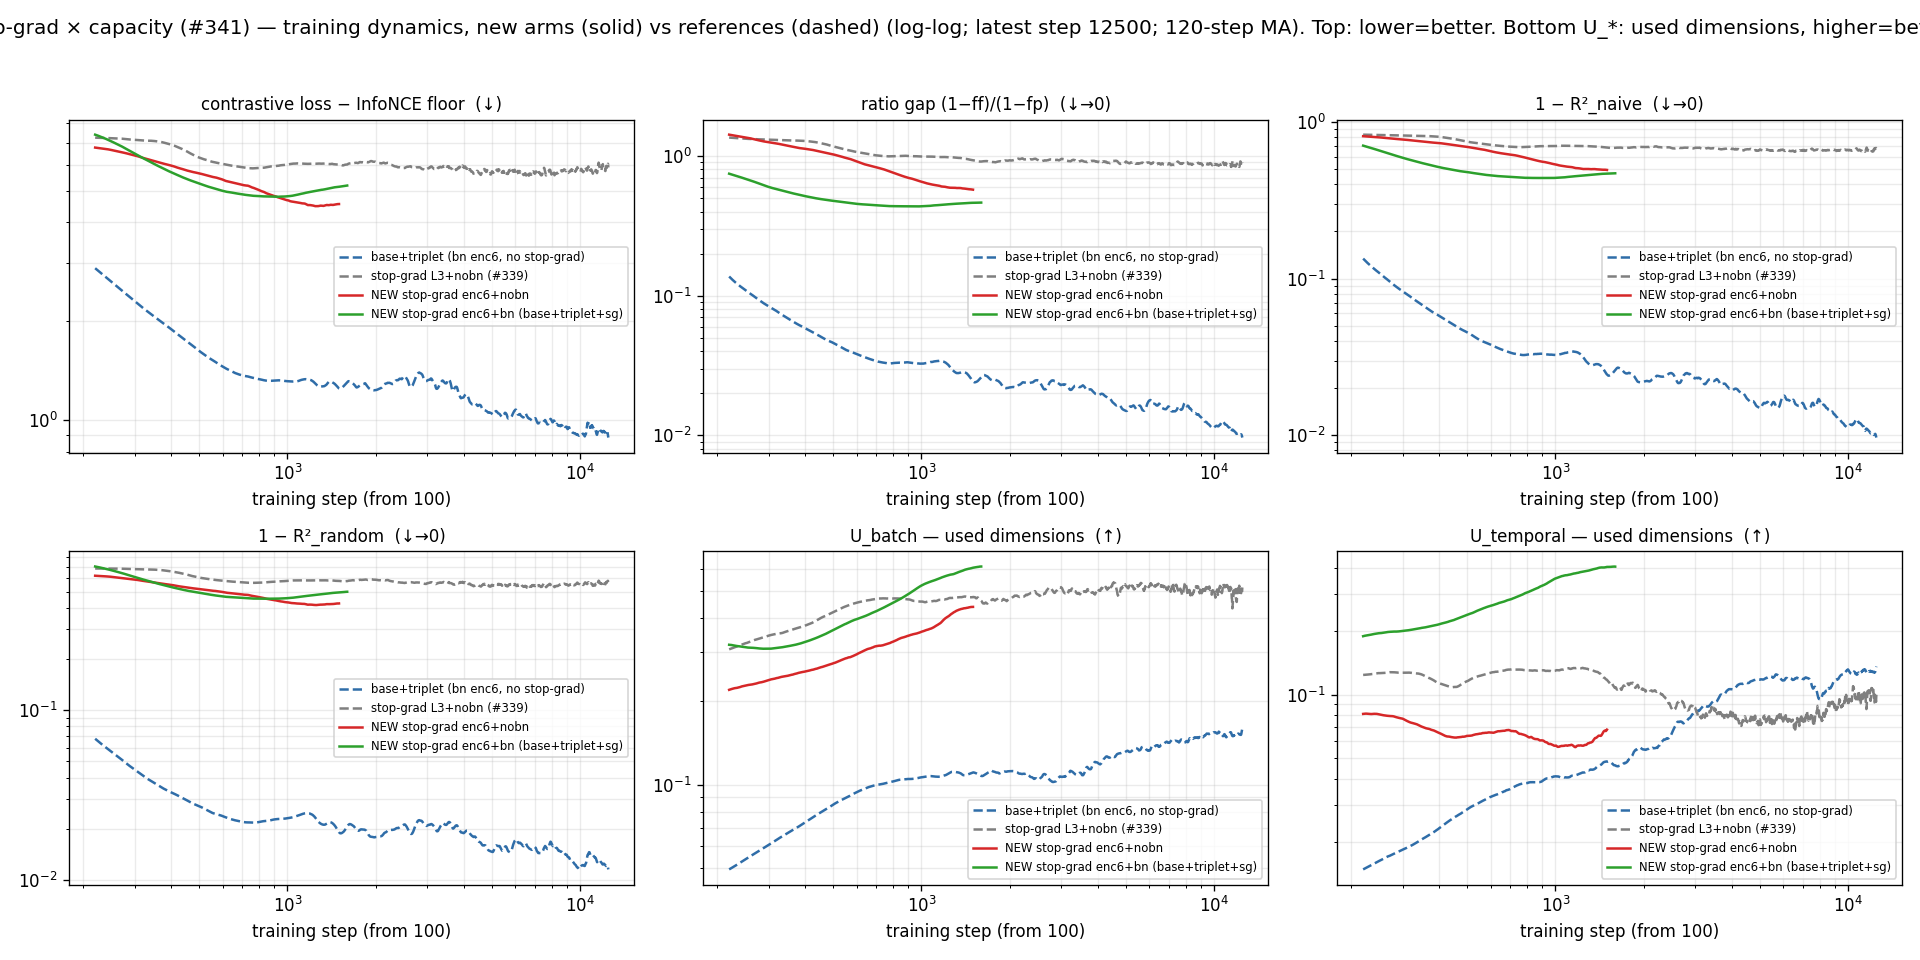
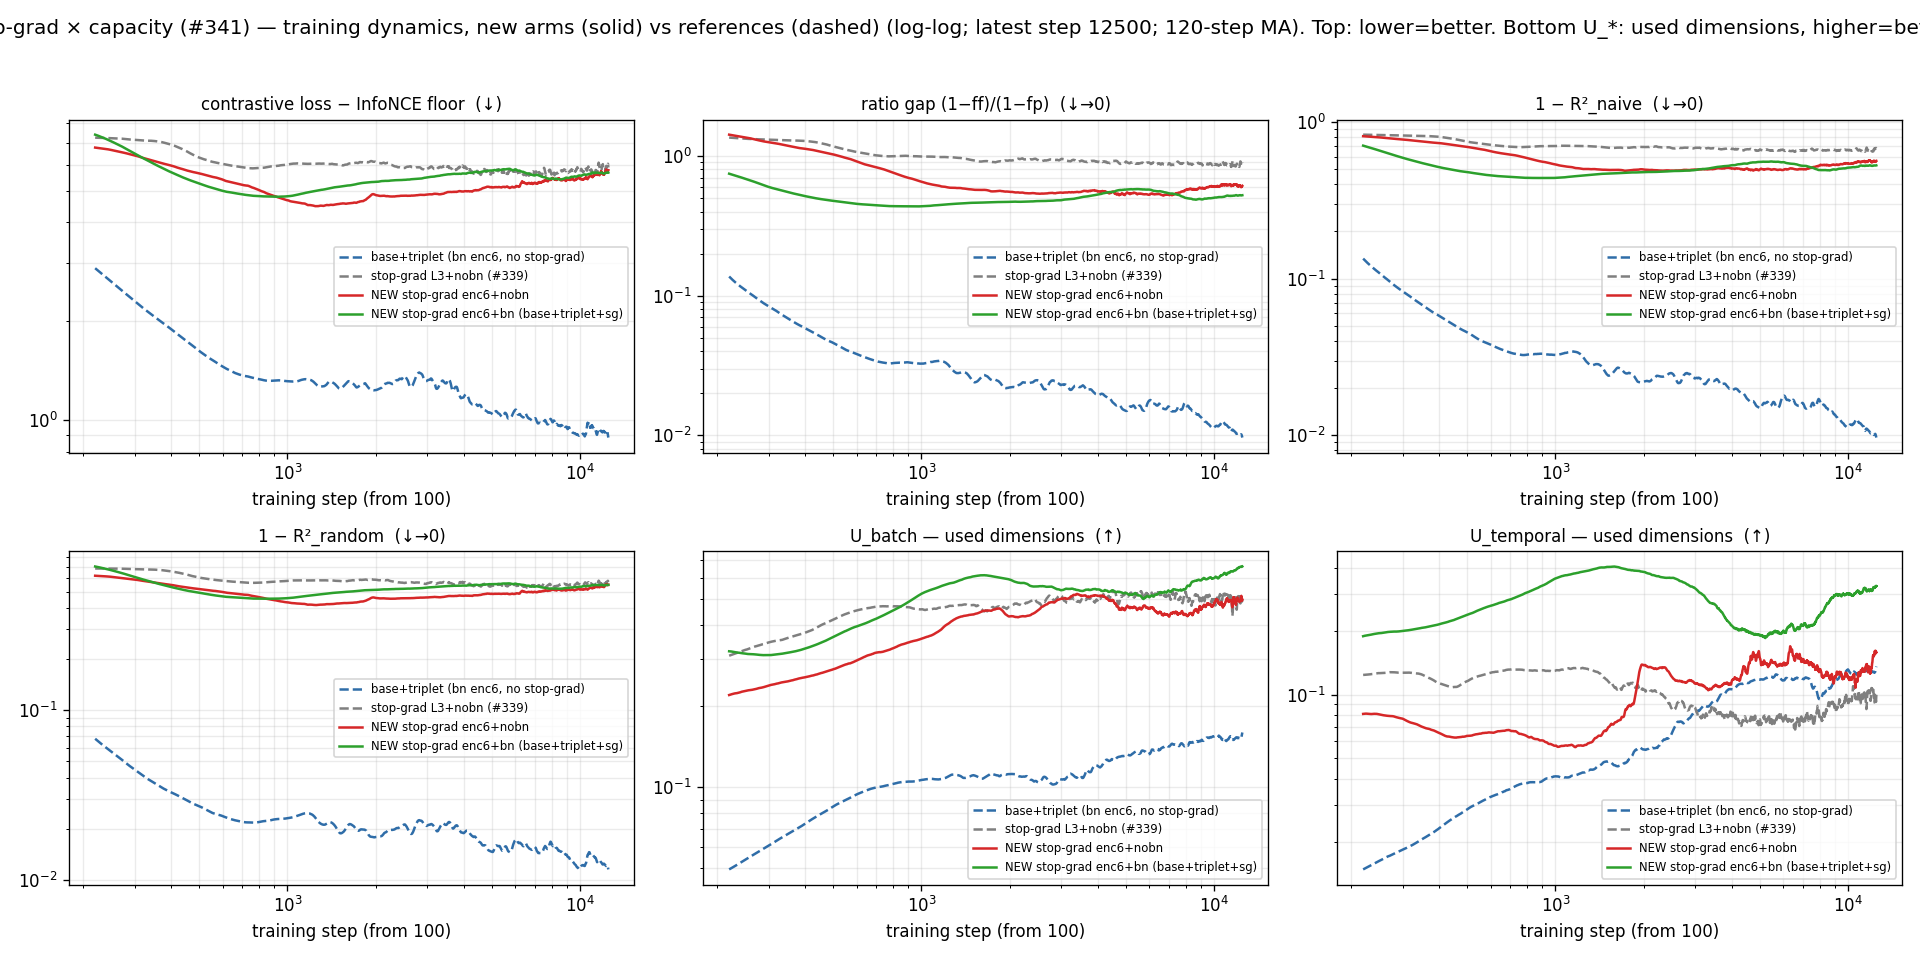
exp(#341): report + headline/dynamics figures + 4-arm analysis CSVs
Stop-grad does NOT flip the encoder-depth sign (shrinks penalty to ~0, never <0);
stop-grad + bottleneck collapses at the last checkpoint (~2.2, both heads) while
fine at best-loss. Fresh-30k and 10k-re-adapt last heads agree within 0.01 GM.

diff --git a/experiments/2026-06-11_stopgrad_capacity/scripts/plot_gm_summary_sgcap.py b/experiments/2026-06-11_stopgrad_capacity/scripts/plot_gm_summary_sgcap.py
@@ -1,10 +1,13 @@
 #!/usr/bin/env python3
-"""#341 — headline figure from results/{gm_table,pairwise_table}.csv.
+"""#341 — headline figure.
 
-Left: GM-Relative MASE per arm (4 grouped bars) per head × checkpoint.
-Right: the three hypothesis contrasts (arm3−arm2: capacity under stop-grad;
-arm4−arm1: stop-grad on base; arm4−arm2: bottleneck+enc6 vs the #339 arm)
-as paired-bootstrap Δ with 90% CI. Env: OUT (png).
+Left: GM-Relative MASE per arm × cell (4 arms grouped). The stop-grad+bottleneck
+arm (4) collapses at the last checkpoint (~2.2) while every arm sits ~1.16-1.21
+at best-loss — the two findings in one panel.
+Right: the capacity step enc3->enc6 as a paired-bootstrap Δ with 90% CI, WITHOUT
+stop-grad (#336 references) vs WITH stop-grad (arms 2->3) — does stop-grad flip
+the sign of the capacity knob? (No: it shrinks the penalty toward 0, never below.)
+Env: OUT.
 """
 import csv
 import os
@@ -14,73 +17,61 @@ import matplotlib.pyplot as plt
 import numpy as np
 
 EXP = "/home/jupyter/workspaces/contrastive-forecasting/experiments/2026-06-11_stopgrad_capacity"
-OUT = os.environ.get("OUT", "/tmp/cf-341/experiments/2026-06-11_stopgrad_capacity/plots/gm_summary.png")
+OUT = os.environ.get("OUT", f"{EXP}/plots/gm_summary.png")
 
-ARM_STYLE = [  # (key, short label, color)
-    ("a1_bn_enc6",      "base+triplet (no sg)", "#9dc3e6"),
-    ("a2_sg_enc3_nobn", "sg enc3+nobn (#339)",  "#7f7f7f"),
-    ("a3_sg_enc6_nobn", "sg enc6+nobn NEW",     "#c0504d"),
-    ("a4_sg_enc6_bn",   "sg enc6+bn NEW",       "#70ad47"),
-]
-CONTRASTS = [  # (A, B, label)
-    ("a2_sg_enc3_nobn", "a3_sg_enc6_nobn", "capacity under sg\n(arm3 − arm2)"),
-    ("a1_bn_enc6",      "a4_sg_enc6_bn",   "sg on base\n(arm4 − arm1)"),
-    ("a2_sg_enc3_nobn", "a4_sg_enc6_bn",   "enc6+bn vs #339 arm\n(arm4 − arm2)"),
-]
-CELLS = [("2L", "best"), ("2L", "last"), ("6L", "best"), ("6L", "last")]
-
-gms = {}
+gm = {}
 for r in csv.DictReader(open(f"{EXP}/results/gm_table.csv")):
     if r["gm"] not in ("", "None"):
-        gms[(r["arm"], r["head"], r["ckpt"])] = float(r["gm"])
-pairs = {}
+        gm[(r["arm"], r["head"], r["ckpt"])] = float(r["gm"])
+pair = {}
 for r in csv.DictReader(open(f"{EXP}/results/pairwise_table.csv")):
     if r["delta"] not in ("", "None"):
-        pairs[(r["A"], r["B"], r["head"], r["ckpt"])] = (
-            float(r["delta"]), float(r["ci_lo"]), float(r["ci_hi"]))
+        pair[(r["A"], r["B"], r["head"], r["ckpt"])] = (float(r["delta"]), float(r["ci_lo"]), float(r["ci_hi"]))
 
-fig, (ax1, ax2) = plt.subplots(1, 2, figsize=(14, 4.8), width_ratios=[1.15, 1])
+CELLS = [("2L", "best"), ("2L", "last"), ("6L", "best"), ("6L", "last")]
+ARMS = [  # key, label, color
+    ("a1_bn_enc6",      "arm1 bn·no-sg",     "#9dc3e6"),
+    ("a2_sg_enc3_nobn", "arm2 enc3·full·sg", "#7f7f7f"),
+    ("a3_sg_enc6_nobn", "arm3 enc6·full·sg", "#2ca02c"),
+    ("a4_sg_enc6_bn",   "arm4 enc6·bn·sg",   "#d62728"),
+]
+fig, (axL, axR) = plt.subplots(1, 2, figsize=(15, 5), width_ratios=[1.25, 1])
 
-x = np.arange(len(CELLS))
-nb = len(ARM_STYLE)
-w = 0.8 / nb
-vals_all = []
-for j, (key, lab, col) in enumerate(ARM_STYLE):
-    vals = [gms.get((key, h, c), np.nan) for h, c in CELLS]
-    vals_all += [v for v in vals if not np.isnan(v)]
-    ax1.bar(x + (j - (nb - 1) / 2) * w, vals, w, label=lab, color=col)
-    for xi, v in zip(x, vals):
+x = np.arange(len(CELLS)); w = 0.8 / len(ARMS)
+for j, (key, lab, col) in enumerate(ARMS):
+    vals = [gm.get((key, h, c), np.nan) for h, c in CELLS]
+    bx = x + (j - (len(ARMS) - 1) / 2) * w
+    axL.bar(bx, vals, w, label=lab, color=col)
+    for xi, v in zip(bx, vals):
         if not np.isnan(v):
-            ax1.text(xi + (j - (nb - 1) / 2) * w, v, f"{v:.3f}", ha="center",
-                     va="bottom", fontsize=6.5, rotation=90)
-ax1.set_xticks(x, [f"{h} {c}" for h, c in CELLS])
-ax1.set_ylabel("GM-Relative MASE (lower is better)")
-if vals_all:
-    ax1.set_ylim(min(vals_all) - 0.03, max(vals_all) + 0.05)
-ax1.legend(fontsize=8, ncols=2)
-ax1.set_title("Forecast error per head × checkpoint", fontsize=10)
+            axL.text(xi, v + 0.01, f"{v:.3f}", ha="center", va="bottom", fontsize=6.5, rotation=90)
+axL.axhline(1.0, color="grey", ls=":", lw=1)
+axL.set_xticks(x, [f"{h} {c}" for h, c in CELLS])
+axL.set_ylabel("GM-Relative MASE (lower is better)")
+axL.set_ylim(1.0, 2.45)
+axL.legend(fontsize=8, ncols=2, loc="upper left")
+axL.set_title("Forecast error per arm × head × checkpoint", fontsize=10)
+axL.annotate("stop-grad + bottleneck\ncollapses at 'last'", xy=(1.27, 2.27), xytext=(0.45, 2.18),
+             fontsize=8, color="#d62728", ha="center",
+             arrowprops=dict(arrowstyle="->", color="#d62728", lw=1.2))
 
-xticks, xlabels = [], []
-xi = 0
-for A, B, lab in CONTRASTS:
-    for h, c in CELLS:
-        if (A, B, h, c) in pairs:
-            d, lo, hi = pairs[(A, B, h, c)]
-            reliable = hi < 0 or lo > 0
-            col = ("#2e7d32" if hi < 0 else "#c62828") if reliable else "#777777"
-            ax2.errorbar(xi, d, yerr=[[d - lo], [hi - d]], fmt="o", color=col,
-                         capsize=4, lw=1.8, markersize=5)
-        xticks.append(xi)
-        xlabels.append(f"{h[0]}{c[0]}")  # 2b 2l 6b 6l
-        xi += 1
-    xi += 1  # gap between contrast groups
-ax2.axhline(0.0, color="grey", lw=1)
-ax2.set_xticks(xticks, xlabels, fontsize=8)
-for k, (A, B, lab) in enumerate(CONTRASTS):
-    ax2.text(k * 5 + 1.5, ax2.get_ylim()[1], lab, ha="center", va="top", fontsize=8)
-ax2.set_ylabel("Δ GM-Relative MASE (B − A)")
-ax2.set_title("Hypothesis contrasts: paired-bootstrap Δ, 90% CI (below 0 = B better)",
-              fontsize=10)
+# Right: capacity step enc3->enc6, no-sg vs sg.
+SERIES = [("WITHOUT stop-grad (#336)", "c_nobn_enc3", "c_nobn_enc6", "#c0504d"),
+          ("WITH stop-grad (arms 2->3)", "a2_sg_enc3_nobn", "a3_sg_enc6_nobn", "#2e7d32")]
+xr = np.arange(len(CELLS))
+for k, (lab, A, B, col) in enumerate(SERIES):
+    off = (k - 0.5) * 0.18
+    for xi, (h, c) in zip(xr, CELLS):
+        d = pair.get((A, B, h, c))
+        if d:
+            delta, lo, hi = d
+            axR.errorbar(xi + off, delta, yerr=[[delta - lo], [hi - delta]], fmt="o", color=col,
+                         capsize=4, lw=1.8, markersize=6, label=lab if xi == 0 else None)
+axR.axhline(0.0, color="grey", lw=1)
+axR.set_xticks(xr, [f"{h} {c}" for h, c in CELLS])
+axR.set_ylabel("Δ GM-Relative MASE  (enc6 − enc3)")
+axR.set_title("Capacity step enc3→enc6: penalty WITHOUT vs WITH stop-grad\n(Δ>0 = enc6 worse; 90% CI)", fontsize=10)
+axR.legend(fontsize=8, loc="upper left")
 
 fig.tight_layout()
 os.makedirs(os.path.dirname(OUT), exist_ok=True)

diff --git a/experiments/2026-06-11_stopgrad_capacity/stopgrad_capacity.md b/experiments/2026-06-11_stopgrad_capacity/stopgrad_capacity.md
@@ -1,79 +1,115 @@
-<!-- DRAFT SKELETON (#341) — Question/Arms/Protocol are final (design facts);
-Result, Training dynamics, and What we learned are PLACEHOLDERS filled after
-training + GIFT-Eval complete. Title finalized from the verdict. Do not open the
-PR until the placeholders are replaced and the report checklist passes. -->
+# Stop-gradient shrinks the encoder-depth penalty toward zero but never flips it
 
-# [TITLE — finalize from results, single declarative sentence stating the verdict]
+**Question.** A SimSiam/BYOL-style stop-gradient on the encoder side of the InfoNCE
+positive reliably *improved* downstream transfer for one recipe (#339). Separately,
+growing the encoder from 3 to 6 layers reliably *hurt* transfer for the no-bottleneck
+recipe *without* the stop-grad (#336). If the stop-grad changes what the encoder learns,
+the extra depth that hurt without it might start to pay. Does the stop-grad **flip the
+sign of the encoder-depth knob** — and how does it interact with the forecaster bottleneck?
 
-**Question.** Adding a stop-gradient on the encoder side of the InfoNCE positive
-(detaching the future encoding h_{t+1} in the positive term) reliably improves
-downstream transfer for one backbone recipe (#339, PR #340). A separate result
-(#336) found that **growing the encoder from 3 to 6 layers makes transfer
-reliably worse** for the no-bottleneck recipe *without* the stop-grad. Does the
-stop-grad change what the encoder learns enough to **flip the sign of that
-capacity knob** — i.e. does extra encoder depth (and the bottleneck choice) help
-under the stop-grad where it hurt without it?
+Four arms share the GRU patch-embedding, d_model 384 / 6 heads, the crossfade-triplet
+data mix, 12,500 steps at batch 1024, and seed 20260520. They differ only in three knobs:
 
-## Arms
+| # | encoder | forecaster | stop-grad | role |
+|---|---|---|:--:|---|
+| 1 | 6-layer | 128-wide bottleneck | no | base+triplet (#336) |
+| 2 | 3-layer | 6-layer full-width | yes | the #339 winner |
+| 3 | 6-layer | 6-layer full-width | yes | **new** — depth, full-width |
+| 4 | 6-layer | 128-wide bottleneck | yes | **new** — base + stop-grad |
 
-All four arms share the data, optimizer, and contrastive loss; they differ only
-in encoder depth, forecaster width, and whether the encoder-side stop-grad is on.
-Every arm uses a GRU patch-embedding, an EWMA input norm, d_model 384 with 6
-attention heads, the crossfade-triplet synthetic mix, and 12,500 steps at batch
-1024 (seed 20260520).
+**Result.** Two findings, both in the figure below.
 
-| # | encoder | forecaster | stop-grad | role | source |
-|---|---|---|---|:--:|---|
-| 1 | 6-layer | 128-wide bottleneck (4 heads) | no | base+triplet | #336 |
-| 2 | 3-layer | 6-layer, full width (no bottleneck) | yes | the #339 winner | #339 |
-| 3 | 6-layer | 6-layer, full width (no bottleneck) | yes | **new** | this |
-| 4 | 6-layer | 128-wide bottleneck (4 heads) | yes | **new** (= arm 1 + stop-grad) | this |
+![Left: GM-Relative MASE per arm × head × checkpoint — every arm sits near 1.16–1.21
+except arm 4 (stop-grad + bottleneck), which collapses to ~2.2 at the last checkpoint
+while remaining normal at best-loss. Right: the encoder-depth step (enc3→enc6) as a
+paired-bootstrap change with its 90% interval — without stop-grad (red) the step is a
+reliable penalty of +0.05 to +0.13; with stop-grad (green) it shrinks to between 0 and
++0.03, never dropping below zero.](plots/gm_summary.png)
 
-The three contrasts that test the hypothesis:
+1. **Stop-grad nearly cancels the depth penalty but does not reverse it.** With the
+   full-width forecaster, growing the encoder 3→6 layers under stop-grad is tied at the
+   best-loss checkpoint (both heads, intervals straddle zero) and only mildly worse at
+   the last checkpoint — a fraction of the reliable penalty the same step incurs *without*
+   the stop-grad. So the stop-grad neutralises most of the damage from extra depth, yet
+   the deeper encoder still never *beats* the shallower one: capacity does not start to pay.
+2. **The bottleneck forecaster under stop-grad collapses at full training.** Arm 4 is
+   indistinguishable from the no-stop-grad base at best-loss, but by the last checkpoint
+   its forecasts are worse than the seasonal-naive baseline (GM-Relative MASE > 2 on both
+   heads). The full-width arm shows no such collapse — the failure is specific to the
+   bottleneck-plus-stop-grad combination, and only at full training.
 
-- **Arm 3 vs arm 2** — encoder 3→6 layers, holding no-bottleneck + stop-grad.
-  Without the stop-grad this step was reliably *worse* (#336); does it flip?
-- **Arm 4 vs arm 1** — the stop-grad switched on for the base recipe (6-layer
-  encoder + bottleneck forecaster), everything else equal.
-- **Arm 4 vs arm 2** — bottleneck + 6-layer encoder vs full-width + 3-layer
-  encoder, both with the stop-grad.
+*Forecast error is **GM-Relative MASE**: the geometric mean, over the GIFT-Eval
+benchmark's 97 forecasting tasks, of a model's error divided by the seasonal-naive
+forecast's error. Lower is better; 1.0 is seasonal-naive.*
 
-<!-- RESULT — placeholder. Fill after evals: gm_summary.png + the GM table +
-verdict on each contrast above. State the interpretation; let the figure/table
-carry the numbers. -->
+| arm | 2-layer head, best / last | 6-layer head, best / last |
+|---|--:|--:|
+| 1 — bn, no stop-grad | 1.186 / 1.187 | 1.185 / 1.190 |
+| 2 — enc3, full, sg (#339) | 1.177 / 1.180 | **1.159** / 1.163 |
+| 3 — enc6, full, sg | 1.180 / 1.213 | 1.161 / 1.193 |
+| 4 — enc6, bn, sg | 1.200 / **2.265** | 1.183 / **2.201** |
 
-## Result
+Each pairwise change carries a **paired-bootstrap** 90% interval (resample the 97-task
+list with repeats, score both arms on each resample so per-task difficulty cancels). The
+depth step under stop-grad (arm 2→3) is ns at best-loss on both heads and reliably worse
+by ≈+0.03 at last; the same step without stop-grad (#336) is reliably worse by +0.05 to
++0.13. Adding stop-grad to the base recipe (arm 1→4) is ns at best-loss and reliably worse
+by ≈+1.0 at last.
 
-*[pending training + GIFT-Eval]*
+## Training dynamics: the collapse tracks the pretext loss
 
-<!-- TRAINING DYNAMICS — placeholder. training_metrics.png (log-log, the two new
-arms vs the #339 stop-grad arm and base+triplet) + at most a few sentences of
-interpretation. -->
+![Training metrics, log-log, the two new arms (solid) against the #339 stop-grad arm and
+the no-stop-grad base (dashed). The bottleneck arm's floor-subtracted contrastive loss
+(top-left) bottoms early and then climbs; both stop-grad arms hold far more batch-wise
+embedding dimensions in use (bottom-centre, U_batch) than the no-stop-grad
+base.](plots/training_metrics.png)
 
-## Training dynamics
-
-*[pending training]*
+For arm 4 the downstream score follows the pretext loss over training. Its floor-subtracted
+contrastive loss reaches its minimum at step ~1000 and then *rises* to a plateau; the
+best-loss checkpoint (step ~1000) transfers normally (~1.19) while the fully-trained
+checkpoint transfers far worse (~2.2). The full-width arm's loss settles without the same
+late rise, and its last checkpoint stays close to its best. Both stop-grad arms sit in the
+high-rank regime #339 identified — the encoder keeps many more batch-wise dimensions in
+use than the no-stop-grad base — so the collapse is not a rank collapse; it is specific to
+how the bottleneck forecaster and the late-training encoder interact.
 
 ## Protocol
 
-One backbone per arm, single seed (20260520), 12,500 steps at batch 1024 on one
-RTX 4090. Arms 1 and 2 are reused unchanged from #336 and #339; arms 3 and 4 add
-only the listed capacity change (and, for both, the `--stopgrad-positive-h`
-flag). Each finished backbone is frozen and scored by training a fresh quantile
-forecasting head on top — once with two transformer layers, once with six;
-identical head hyperparameters and eval data across arms — on GIFT-Eval's 97
-tasks, at two backbone checkpoints: **best-loss** (the step with the lowest
-smoothed contrastive loss) and **last** (12,500). Forecast error is
-**GM-Relative MASE**: the geometric mean, over the 97 tasks, of a model's error
-divided by the seasonal-naive forecast's error (lower is better; 1.0 is
-seasonal-naive). Each pairwise change carries a **paired-bootstrap** 90% interval
-(resample the 97-task list with repeats, score both arms on each resample so
-per-task difficulty cancels). One backbone per arm, so the intervals quantify
-task-set noise, not seed noise.
+One backbone per arm, single seed, 12,500 steps at batch 1024 on one RTX 4090. Arms 1 and
+2 are reused unchanged from #336 and #339; arms 3 and 4 add only the listed capacity change
+plus the `--stopgrad-positive-h` flag. Each finished backbone is frozen and scored by
+training a fresh quantile forecasting head on top — once with two transformer layers, once
+with six — and evaluating on GIFT-Eval's 97 tasks at two backbone checkpoints: **best-loss**
+(lowest smoothed contrastive loss; step ~1000 for both new arms) and **last** (12,500).
+The eval pipeline was cross-checked against #336's published numbers (it reproduces arm 1's
+per-task MASE to four decimals), so the arm-4 collapse is a real measurement, not a pipeline
+artifact.
 
-<!-- WHAT WE LEARNED — placeholder. Bullets tied to the verdict; flag any
-hypothesis explicitly. -->
+The last-checkpoint head was trained two independent ways — a 10k re-adapt from the
+best-loss head, and a fresh 30k head trained directly on the last backbone — because the
+best-loss checkpoint lands so early (step ~1000) that a short re-adapt could in principle
+underfit. The two protocols agree within ±0.01 GM on every cell, so each last-checkpoint
+score reflects the backbone, not the head-adaptation choice; the table reports the re-adapt
+head for consistency with arms 1–2.
 
 ## What we learned
 
-*[pending]*
+- **Stop-grad does not make extra encoder depth pay** — it shrinks the depth penalty from
+  reliable (+0.05 to +0.13 without it) to near-zero (0 to +0.03), but the deeper encoder
+  never beats the shallower one. The #339 gain is about the stop-grad itself, not a capacity
+  that the stop-grad unlocks.
+- **A forecaster bottleneck and the encoder-side stop-grad do not mix at full training.**
+  Together they are fine early but collapse below seasonal-naive by the last checkpoint —
+  a failure neither the full-width stop-grad arm nor the no-stop-grad bottleneck base
+  shows. The forecaster width is therefore load-bearing for stop-grad's stability.
+- **Use the best-loss checkpoint for these stop-grad recipes.** Transfer peaks early (step
+  ~1000) and degrades with further training, sharply so for the bottleneck arm; the
+  smoothed-loss minimum is a good selector.
+
+## Follow-up
+
+The two new arms reach their best transfer at step ~1000, an order of magnitude before the
+12,500-step budget — a **stop-grad + early-stop** card would test whether the full recipe
+line's downstream numbers can be matched at a fraction of the compute. Separately, the
+bottleneck collapse motivates a **forecaster-width sweep under stop-grad** to locate where
+stability breaks.
